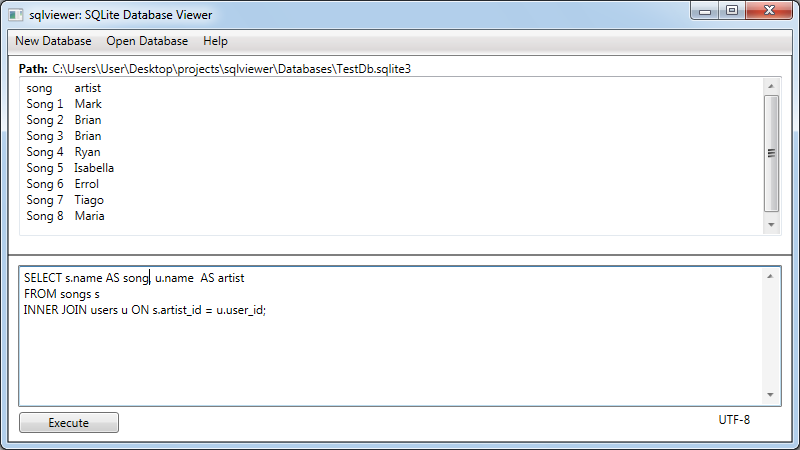
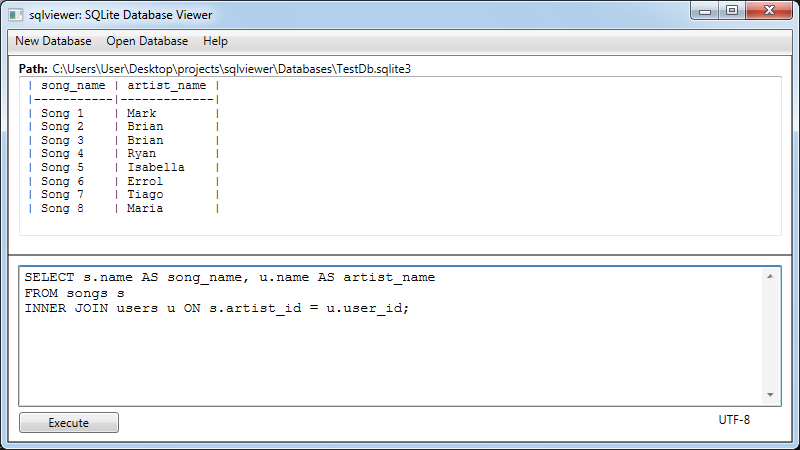
Display a table

diff --git a/SqlViewer/Source/View/MainWindow.xaml b/SqlViewer/Source/View/MainWindow.xaml
@@ -49,7 +49,7 @@
                     </StackPanel>
                     
                     <RichTextBox Name="richTextBox1" Height="160" IsReadOnly="True" VerticalScrollBarVisibility="Auto" HorizontalScrollBarVisibility="Auto">
-                        <FlowDocument PageHeight="Auto" PageWidth="380" />
+                        <FlowDocument FontFamily="Courier New" FontSize="12" PageHeight="Auto" PageWidth="380" />
                     </RichTextBox>
                 </StackPanel>
             </Grid>
@@ -71,6 +71,7 @@
                 <StackPanel Grid.Row="1" Grid.Column="1" Orientation="Vertical" Margin="0,5,0,0">
                     <Border BorderBrush="Black" BorderThickness="0.5">
                         <TextBox Name="tbMultiLine" TextWrapping="Wrap" 
+                            FontFamily="Courier New" FontSize="14"
                             AcceptsReturn="True" AcceptsTab="True"
                             VerticalScrollBarVisibility="Visible" 
                             MinHeight="140" MaxHeight="140" >

diff --git a/SqlViewer/Source/Models/SqliteDbHelper.cs b/SqlViewer/Source/Models/SqliteDbHelper.cs
@@ -15,6 +15,8 @@ namespace SqlViewer.Models.Database
             set { absolutePathToDb = value; }
         }
 
+        private int[] MaxSizeOfColumns; 
+
         static SqliteDbHelper()
         {
             Instance = new SqliteDbHelper(); 
@@ -43,20 +45,10 @@ namespace SqlViewer.Models.Database
             try
             {
                 DataTable table = GetDataTable(sqlRequest);
-                foreach (DataColumn column in table.Columns)
-                {
-                    result += $"{column.ColumnName.ToString()}\t";
-                }
-                result += "\n"; 
-
-                foreach (DataRow row in table.Rows)
-                {
-                    foreach (DataColumn column in table.Columns)
-                    {
-                        result += $"{row[column].ToString()}\t"; 
-                    }
-                    result += "\n"; 
-                }
+                GetMaxSizeOfColumns(table); 
+                SetColumnNames(ref table, ref result); 
+                SetSeparator(table, ref result); 
+                SetTableContent(ref table, ref result); 
             }
             catch (System.Exception e)
             {
@@ -87,6 +79,111 @@ namespace SqlViewer.Models.Database
                 {
                     throw e; 
                 }
+            }
+        }
+
+        private void GetMaxSizeOfColumns(DataTable table)
+        {
+            MaxSizeOfColumns = new int[table.Columns.Count]; 
+
+            int i = 0; 
+            foreach (DataColumn column in table.Columns)
+            {
+                string columnName = column.ColumnName.ToString(); 
+                MaxSizeOfColumns[i] = columnName.Length; 
+                i++; 
+            }
+
+            foreach (DataRow row in table.Rows)
+            {
+                i = 0; 
+                foreach (DataColumn column in table.Columns)
+                {
+                    string property = row[column].ToString(); 
+                    MaxSizeOfColumns[i] = (MaxSizeOfColumns[i] < property.Length) ? property.Length : MaxSizeOfColumns[i]; 
+                    i++; 
+                }
+            }
+        }
+
+        private void SetColumnNames(ref DataTable table, ref string result)
+        {
+            try
+            {
+                int index = 0; 
+                foreach (DataColumn column in table.Columns)
+                {
+                    string columnName = column.ColumnName.ToString(); 
+                    result += $"| {columnName} ";
+                    AddExtraSpaces(ref result, columnName.Length, index);
+                    index++; 
+                }
+                result += "|\n"; 
+            }
+            catch (System.Exception e)
+            {
+                throw e;
+            }
+        }
+
+        private void SetSeparator(DataTable table, ref string result)
+        {
+            try
+            {
+                int index = 0; 
+                foreach (DataColumn column in table.Columns)
+                {
+                    result += $"|-";
+                    for (int i = 0; i < MaxSizeOfColumns[index]; i++)
+                    {
+                        result += "-"; 
+                    }
+                    result += "-";
+                    index++; 
+                }
+                result += "|\n"; 
+            }
+            catch (System.Exception e)
+            {
+                throw e;
+            }
+        }
+
+        private void SetTableContent(ref DataTable table, ref string result)
+        {
+            try
+            {
+                foreach (DataRow row in table.Rows)
+                {
+                    int index = 0; 
+                    foreach (DataColumn column in table.Columns)
+                    {
+                        string property = row[column].ToString(); 
+                        result += $"| {property} "; 
+                        AddExtraSpaces(ref result, property.Length, index);
+                        index++; 
+                    }
+                    result += "|\n"; 
+                }
+            }
+            catch (System.Exception e)
+            {
+                throw e; 
+            }
+        }
+
+        private void AddExtraSpaces(ref string result, int stringLength, int index)
+        {
+            int length = MaxSizeOfColumns[index] - stringLength; 
+
+            if (length < 0)
+            {
+                throw new System.Exception("Length of a string is bigger than maximum length in its column"); 
+            }
+
+            for (int i = 0; i < length; i++)
+            {
+                result += " "; 
             }
         }
     }
